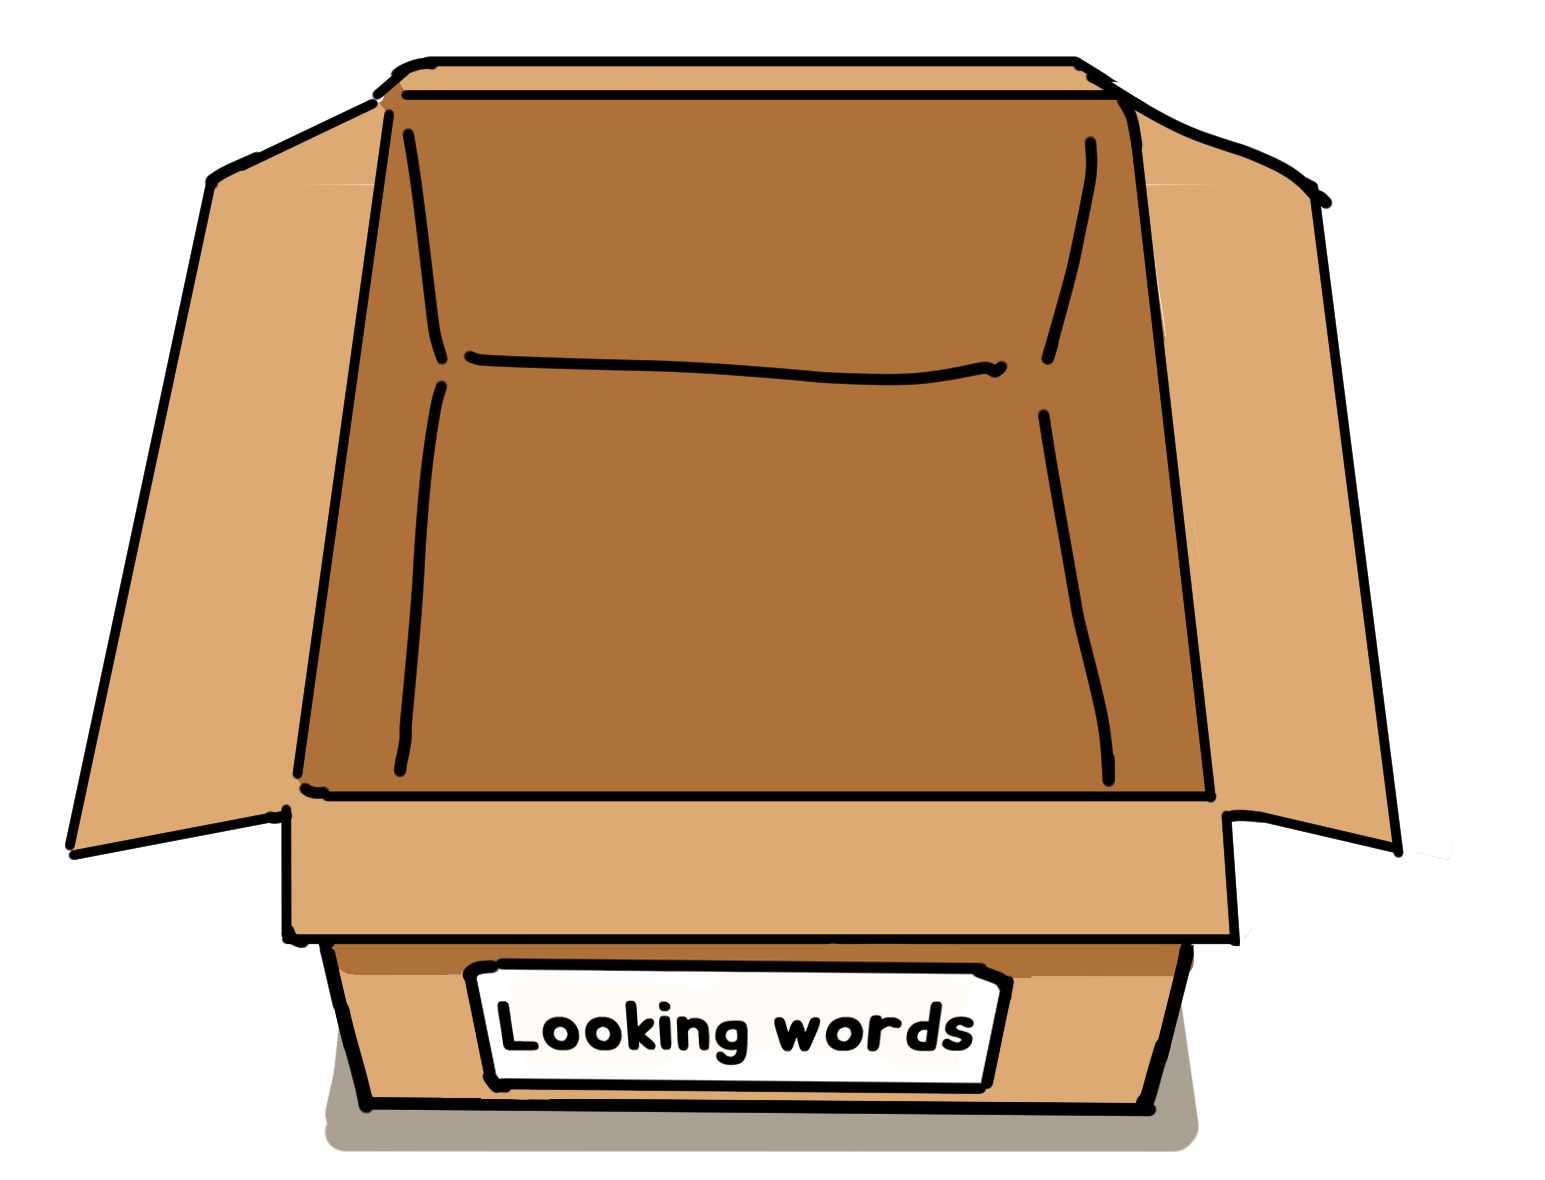
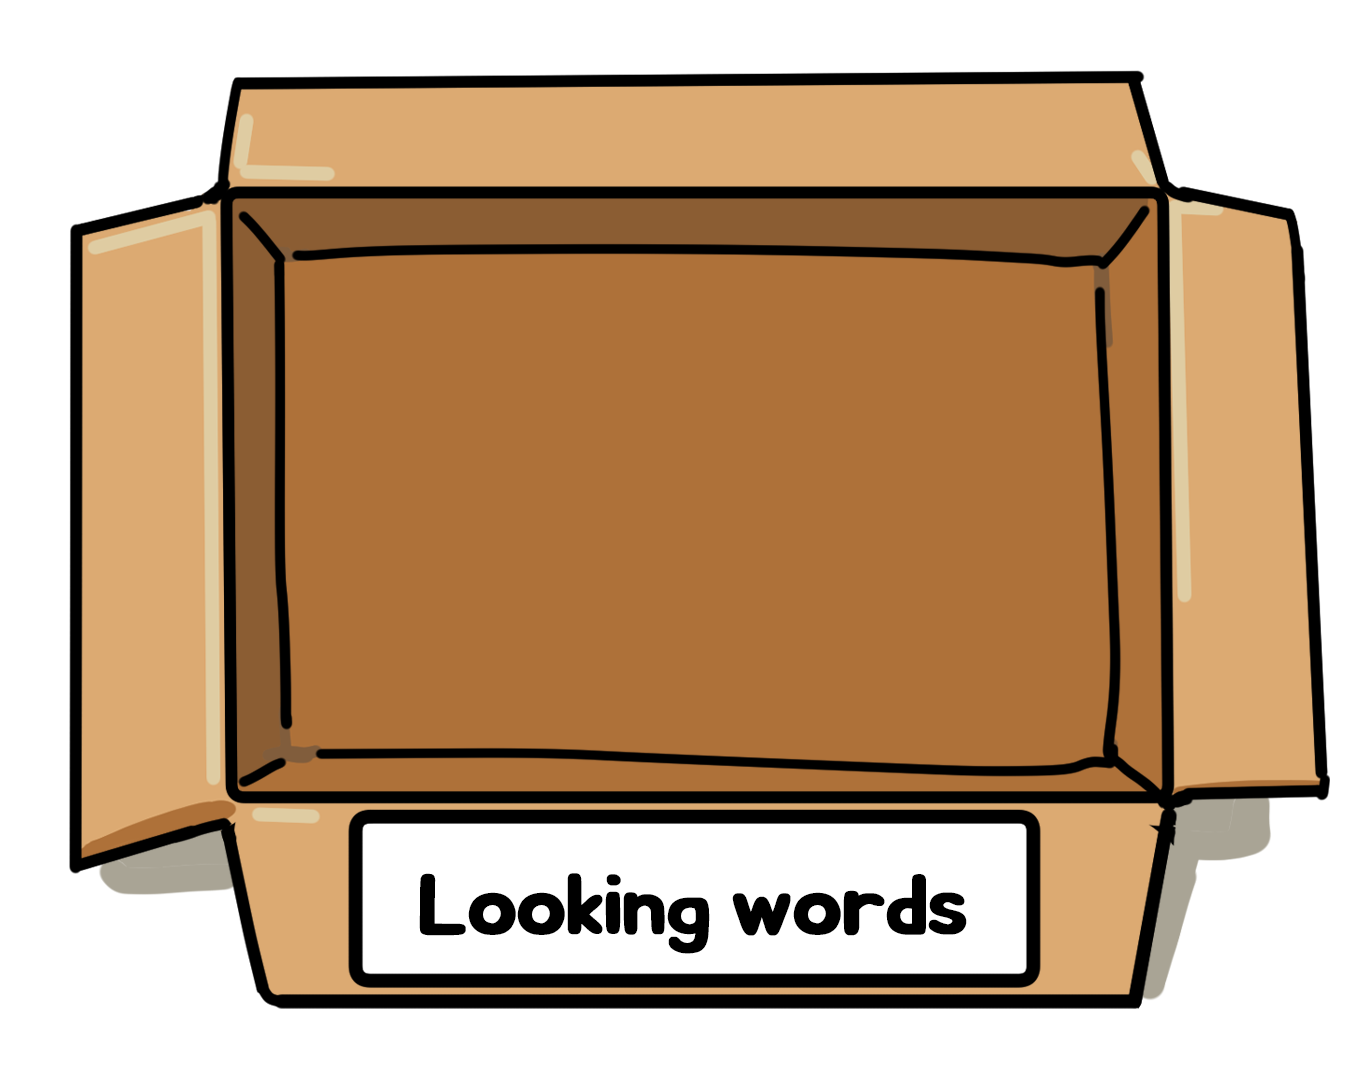
새 박스 에셋과 하단 배치 적용

diff --git a/index.html b/index.html
@@ -37,7 +37,7 @@
     0%,100% { transform:translateX(0); filter:drop-shadow(0 0 10px #ff3b3b); }
     25% { transform:translateX(-10px); } 50% { transform:translateX(9px); } 75% { transform:translateX(-6px); }
   }
-  .stored-fruit { position:absolute; width:40px; height:40px; object-fit:contain; pointer-events:none;
+  .stored-fruit { position:absolute; width:56px; height:56px; object-fit:contain; pointer-events:none;
     z-index:2; filter:drop-shadow(0 5px 3px #00000035);
     transform:translate(-50%,-50%) rotate(var(--rot, 0deg)) scale(.18);
     animation:fruitStore .28s cubic-bezier(.2,1.35,.34,1) forwards; }
@@ -193,9 +193,9 @@ const LAYOUT = {
             face:{ x:0, y:106, w:1032, h:192 } },       // 구동 연출 오버레이 영역
   trash : { x:1005, y:145, w:255, h:300, catchY:342, cx:1140 },  // 자동 낙하 수거 영역
   bins  : [                                            // 카테고리 순서대로 매핑 (벨트 아래 3개)
-    { x:60,  y:412, w:268, h:205 },
-    { x:506, y:412, w:268, h:205 },
-    { x:952, y:436, w:268, h:205 },
+    { x:50,  y:404, w:395, h:315 },
+    { x:442, y:404, w:398, h:315 },
+    { x:836, y:404, w:398, h:315 },
   ],
 };
 
@@ -228,11 +228,12 @@ const FRUIT_NAMES = [   // 벨트에 흐르는 과일 (단어와 무관, 랜덤)
 ];
 const FRUITS = FRUIT_NAMES.map(name => ({ name, src:`assets/fruit_${name}.png` }));
 const BIN_STACK_SLOTS = [
-  { x:.41, y:.56, s:.94, rot:-11 }, { x:.52, y:.55, s:1.00, rot:5 },
-  { x:.63, y:.57, s:.95, rot:13 },  { x:.46, y:.49, s:.88, rot:8 },
-  { x:.58, y:.48, s:.90, rot:-8 },  { x:.68, y:.50, s:.86, rot:6 },
-  { x:.36, y:.50, s:.82, rot:17 },  { x:.50, y:.42, s:.80, rot:-14 },
-  { x:.61, y:.42, s:.82, rot:12 },  { x:.72, y:.45, s:.76, rot:-5 },
+  { x:.30, y:.49, s:.96, rot:-11 }, { x:.41, y:.48, s:1.02, rot:5 },
+  { x:.52, y:.49, s:.98, rot:13 },  { x:.63, y:.50, s:.95, rot:-8 },
+  { x:.74, y:.51, s:.92, rot:8 },   { x:.35, y:.39, s:.88, rot:17 },
+  { x:.47, y:.38, s:.90, rot:-14 }, { x:.59, y:.39, s:.88, rot:12 },
+  { x:.70, y:.40, s:.84, rot:-5 },  { x:.42, y:.30, s:.80, rot:9 },
+  { x:.54, y:.30, s:.82, rot:-9 },  { x:.66, y:.31, s:.78, rot:14 },
 ];
 
 /* ===================== 이하 엔진 ===================== */
@@ -277,15 +278,15 @@ function addStoredFruit(cat, src){
   img.className = 'stored-fruit';
   img.draggable = false;
   img.src = src;
-  img.style.left = `calc(${slot.x * 100}% + ${rand(-5, 5)}px)`;
-  img.style.top = `calc(${slot.y * 100}% - ${Math.min(layer * 5, 18)}px)`;
+  img.style.left = `calc(${slot.x * 100}% + ${rand(-8, 8)}px)`;
+  img.style.top = `calc(${slot.y * 100}% - ${Math.min(layer * 12, 44)}px)`;
   img.style.zIndex = 2 + cat.stack;
   img.style.setProperty('--rot', `${slot.rot + rand(-5, 5)}deg`);
   img.style.setProperty('--s', `${slot.s}`);
   cat.el.appendChild(img);
   cat.storedFruits.push(img);
   cat.stack++;
-  if (cat.storedFruits.length > 18) cat.storedFruits.shift().remove();
+  if (cat.storedFruits.length > 24) cat.storedFruits.shift().remove();
 }
 function clearStoredFruits(){
   CATEGORIES.forEach(cat => {